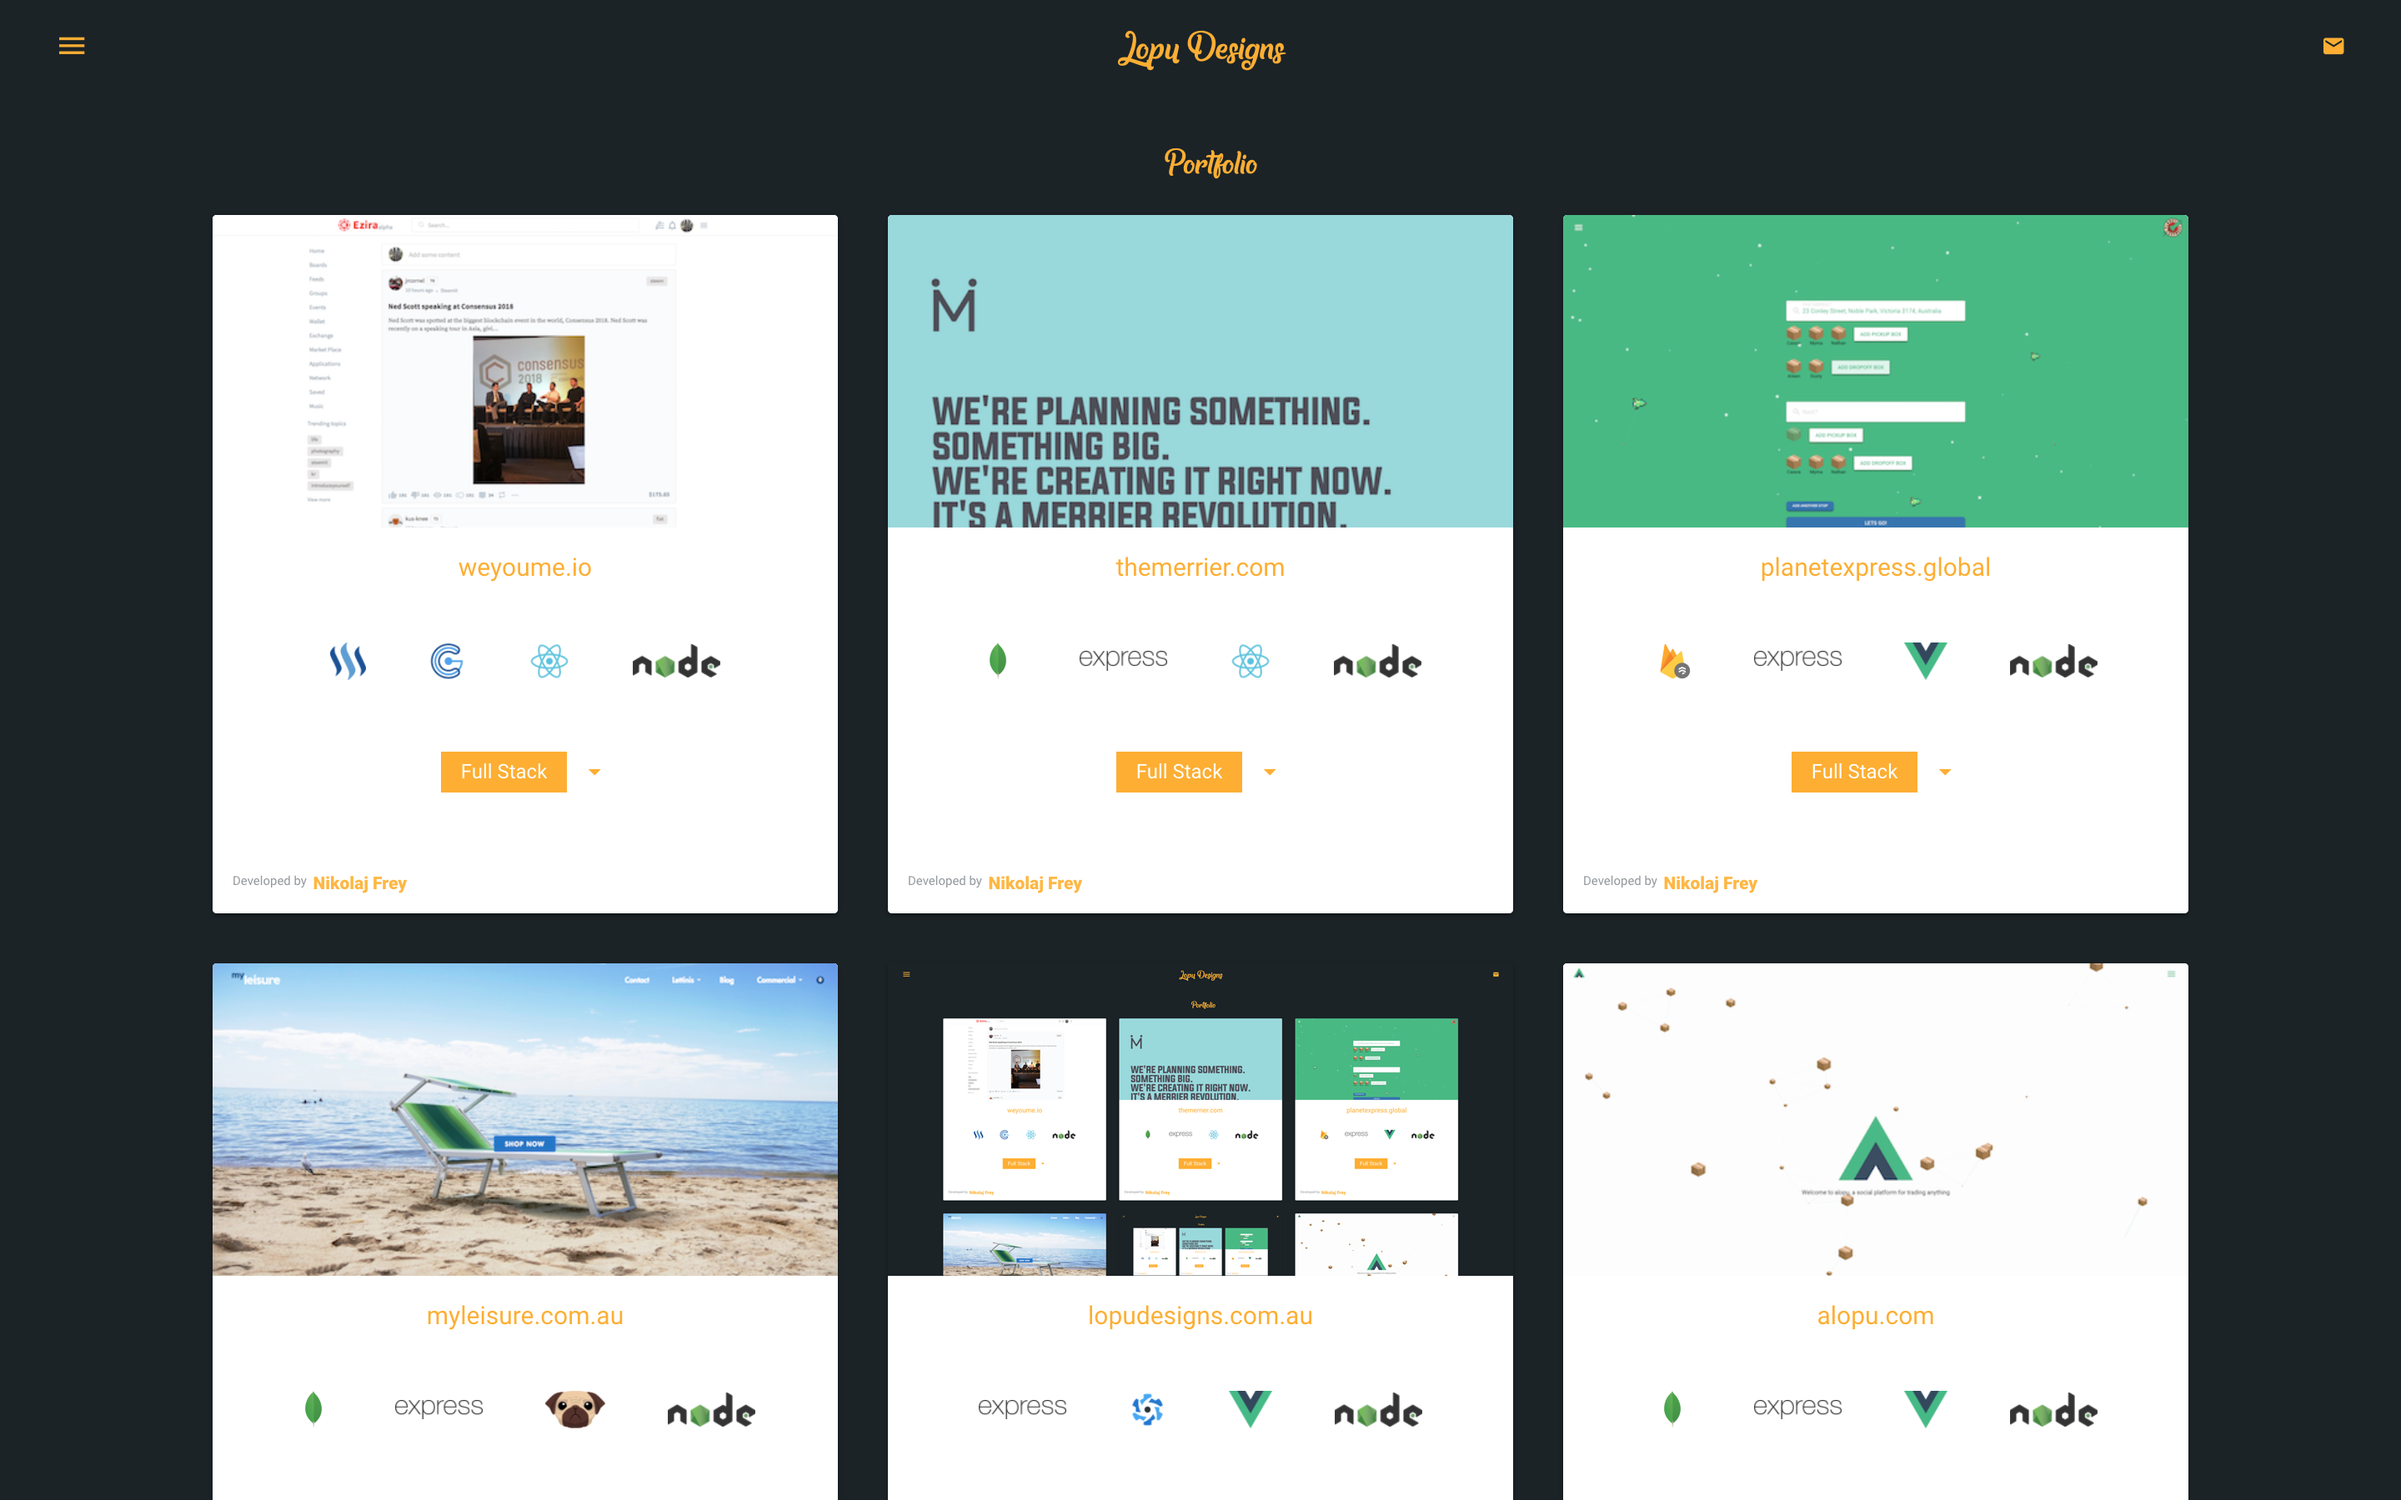
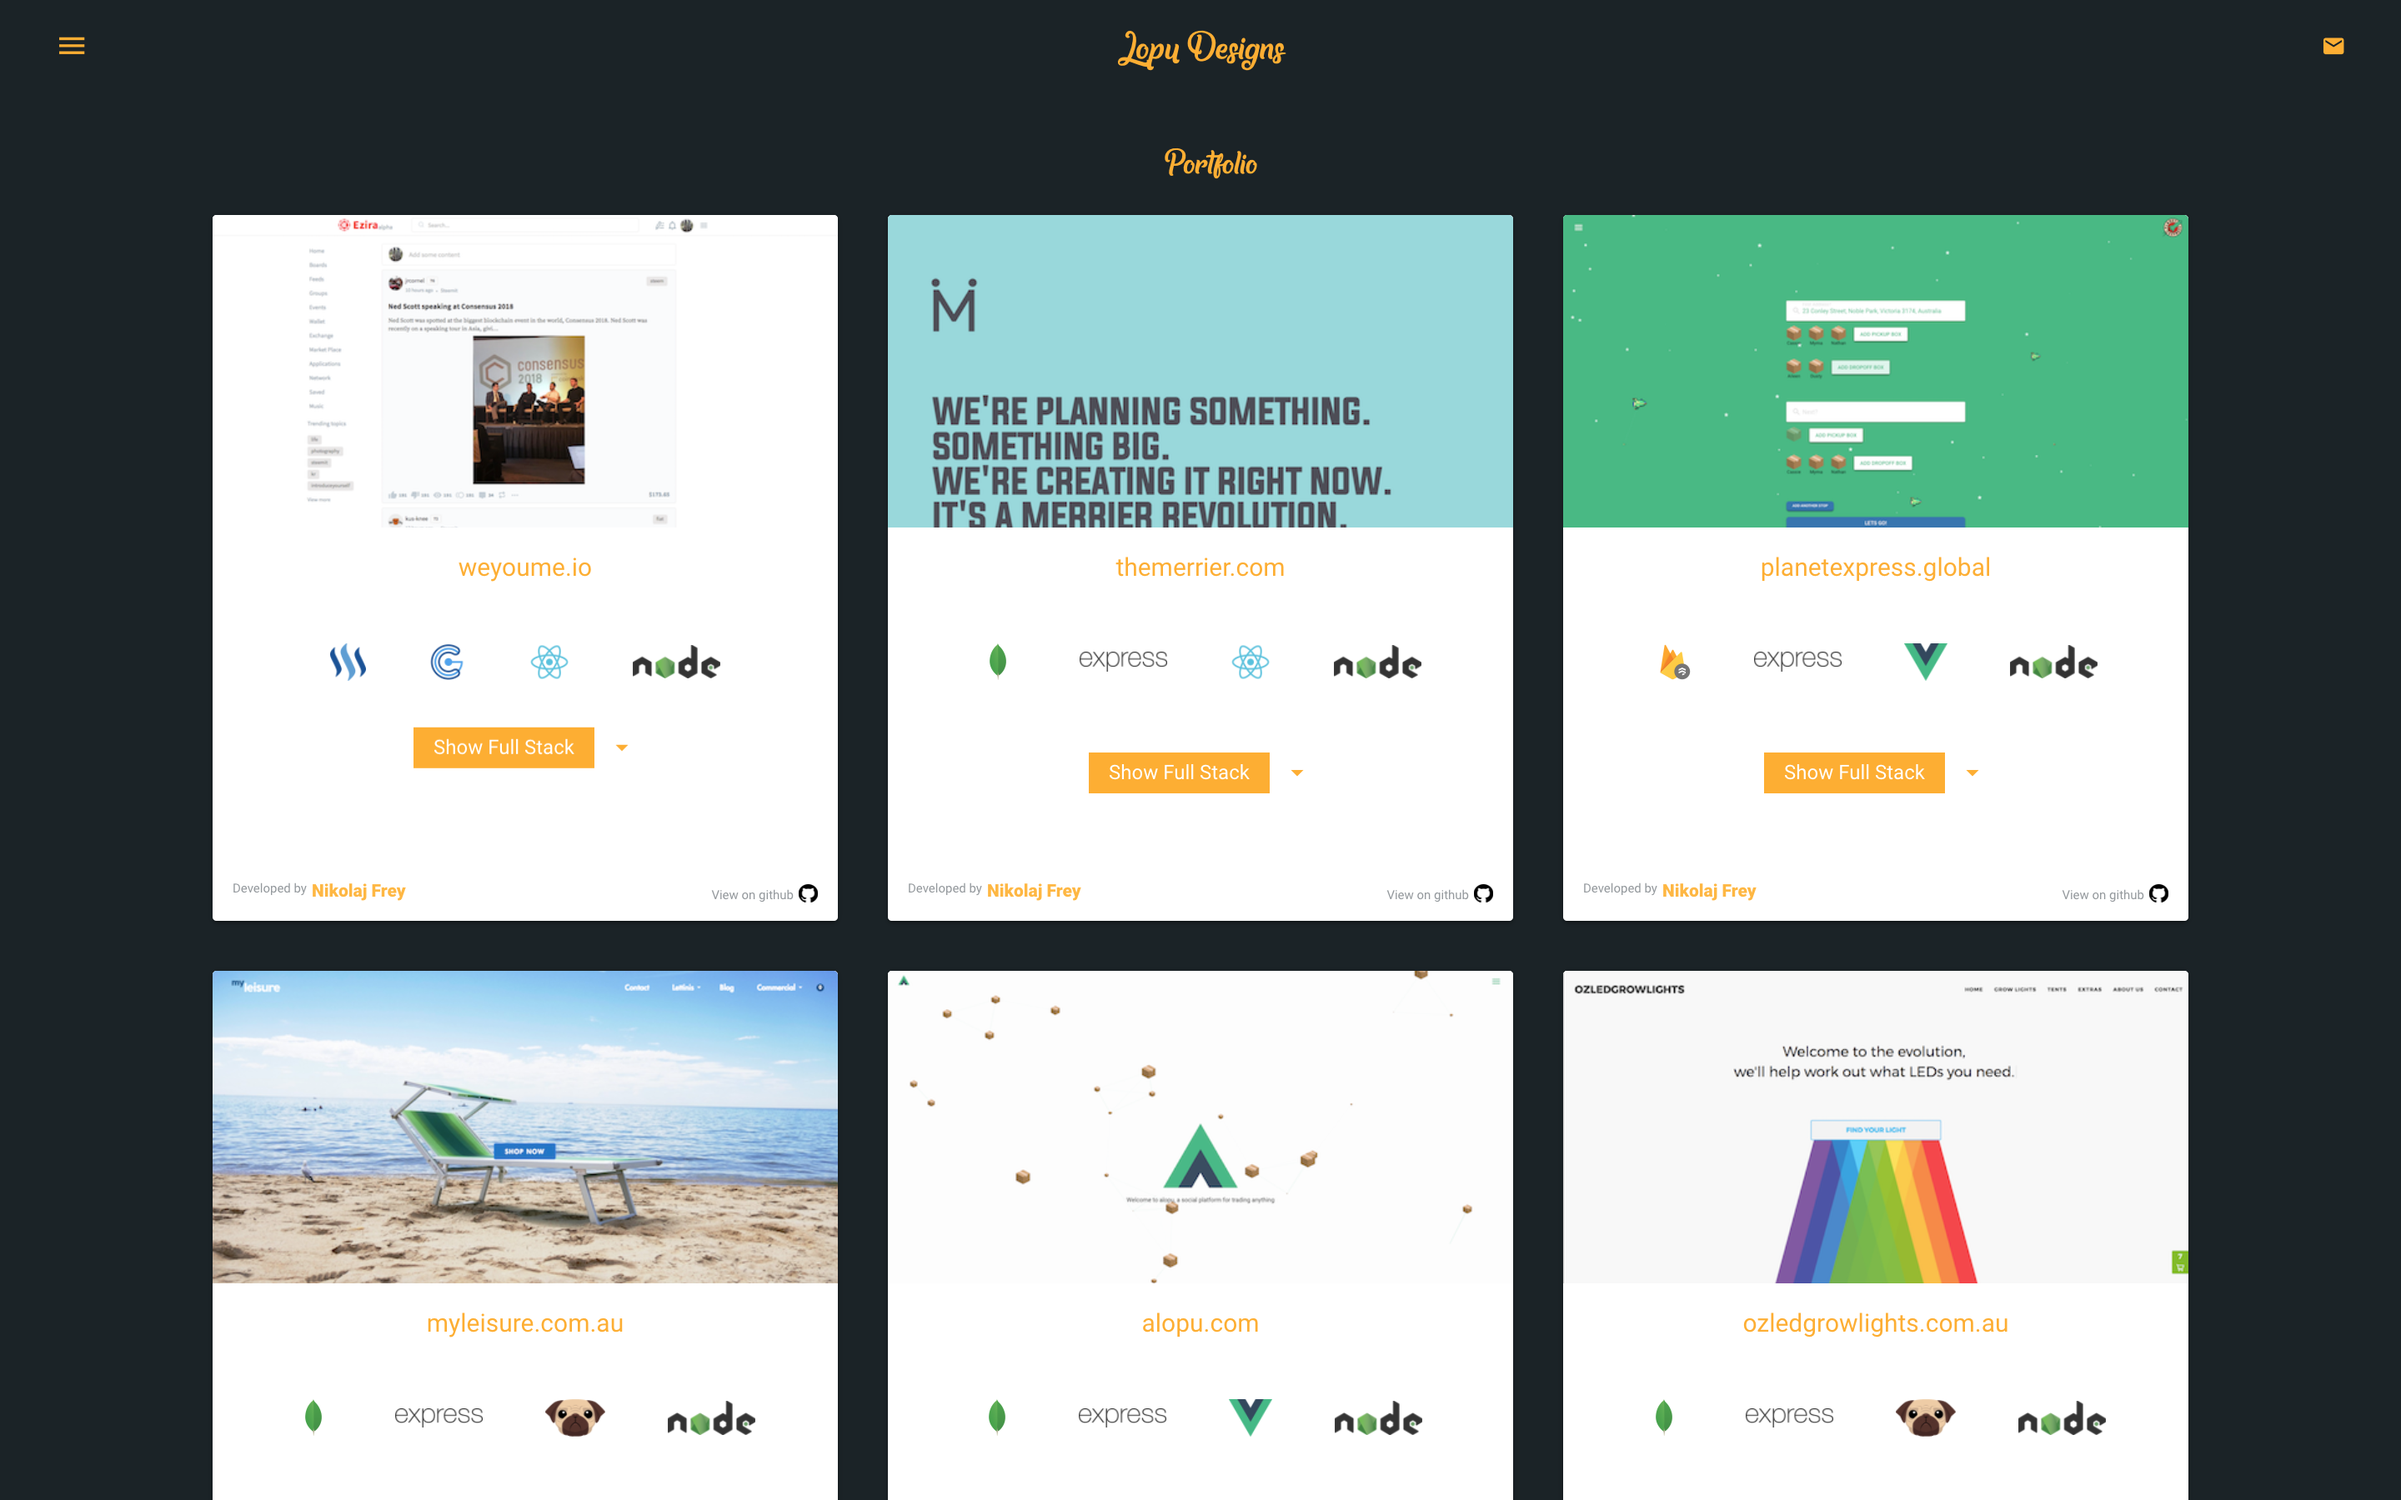
Changed website ordering and changed lopudesigns image 1

diff --git a/src/pages/index.vue b/src/pages/index.vue
@@ -16,7 +16,7 @@
 							:options=`{
 								speed: 2500,
 								autoplaySpeed: Math.random()*3000,
-								autoplay: true,
+								autoplay: false,
 								slidesToShow: 1,
 								//- pauseOnHover: false
 							}`
@@ -366,67 +366,6 @@ export default {
 					]
 				},
 				{
-					name: 'lopudesigns',
-					domain: '.com',
-					images: 5,
-					author: 'Nikolaj Frey',
-					authorContact: "https://www.linkedin.com/in/nikolajfrey",
-					mainStack: [
-						'Express.js',
-						'Quasar',
-						'Vue.js',
-						'Node.js'
-					],
-					technologies: [
-						{
-							type: 'front end',
-							list: [
-								'Axios',
-								'Babel',
-								'Google Material Icons',
-								'HTML5',
-								'JS',
-								'CSS3',
-								'npm',
-								'PostCSS',
-								'Quasar',
-								'Sass',
-								'Socket.io',
-								'Stylus',
-								'Vue Router',
-								'Vue.js',
-								'Vuex',
-								'Webpack',
-							]
-						},
-						{
-							type: 'back end',
-							list: [
-								'Quasar',
-								'Express.js',
-								'Nginx',
-								'npm',
-								'PM2',
-							]
-						},
-						{
-							type: 'version control',
-							list: [
-								'Git',
-								'Github'
-							]
-						},
-						{
-							type: 'sys admin',
-							list: [
-								'AWS',
-								'EC2',
-								'Route 53',
-							]
-						}
-					]
-				},
-				{
 					name: 'alopu',
 					domain: '.com',
 					images: 2,
@@ -559,6 +498,67 @@ export default {
 								'AWS',
 								'EC2',
 								'Nginx',
+								'Route 53',
+							]
+						}
+					]
+				},
+				{
+					name: 'lopudesigns',
+					domain: '.com',
+					images: 5,
+					author: 'Nikolaj Frey',
+					authorContact: "https://www.linkedin.com/in/nikolajfrey",
+					mainStack: [
+						'Express.js',
+						'Quasar',
+						'Vue.js',
+						'Node.js'
+					],
+					technologies: [
+						{
+							type: 'front end',
+							list: [
+								'Axios',
+								'Babel',
+								'Google Material Icons',
+								'HTML5',
+								'JS',
+								'CSS3',
+								'npm',
+								'PostCSS',
+								'Quasar',
+								'Sass',
+								'Socket.io',
+								'Stylus',
+								'Vue Router',
+								'Vue.js',
+								'Vuex',
+								'Webpack',
+							]
+						},
+						{
+							type: 'back end',
+							list: [
+								'Quasar',
+								'Express.js',
+								'Nginx',
+								'npm',
+								'PM2',
+							]
+						},
+						{
+							type: 'version control',
+							list: [
+								'Git',
+								'Github'
+							]
+						},
+						{
+							type: 'sys admin',
+							list: [
+								'AWS',
+								'EC2',
 								'Route 53',
 							]
 						}
